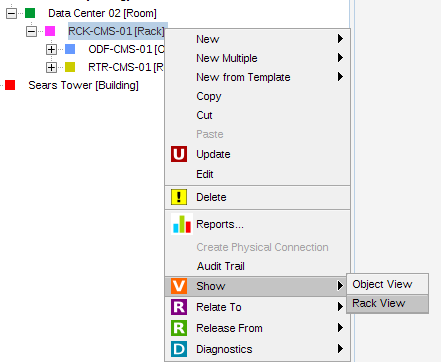
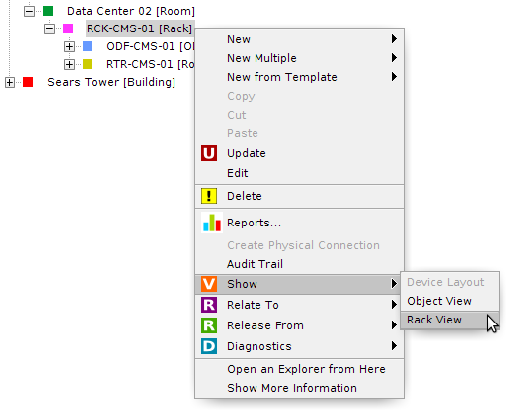
Added a description to create multiple template elements, a section to custom shapes and a section of import/export layout. Updated some figures.

Changed region(s): [[0.0, 0.0, 1.0, 1.0]]

diff --git a/docs/user_manual/user_manual.tex b/docs/user_manual/user_manual.tex
@@ -169,7 +169,7 @@
 	Once you are logged in, you will see only the dashboard page and a toolbar (figure~\ref{fig:main_toolbar}).\\
 	\begin{figure}[h!]
 		\centering
-		\includegraphics[width=0.7\linewidth]{img/main_toolbar.png}
+		\includegraphics[width=0.8\linewidth]{img/main_toolbar.png}
 		\caption{Main toolbar}
 		\label{fig:main_toolbar}
 	\end{figure}
@@ -201,6 +201,8 @@
 			\includegraphics[width=0.5cm]{img/icon_containment_manager.png} & Manage how objects can be created inside others\\
 			\midrule
 			\includegraphics[width=0.5cm]{img/icon_list_type_manager.png} & Create new list types\\
+			\midrule
+			\includegraphics[width=0.5cm]{img/icon_devices_layouts.png} & Shows the devices layouts existing\\
 			\midrule
 			\includegraphics[width=0.5cm]{img/icon_template_manager.png} & Create and manage templates\\
 			\midrule
@@ -555,6 +557,15 @@
 		\label{fig:template_with_special_objects}
 	\end{figure}
 	
+	If you no want create one by one template elements and special template elements use the action New multiple or New multiple special figure~\ref{fig:template_manager_new_multiple}, assigning a name pattern and the number of elements (see \textbf{\nameref{app:AppendixA}})
+		
+	\begin{figure}[h!]
+		\centering
+		\includegraphics[width=0.9\linewidth]{img/template_manager_new_multiple.png}
+		\caption{New multiple special template elements}
+		\label{fig:template_manager_new_multiple}
+	\end{figure}
+		
 	Now you can create containment structures as complex as you want.\\
 	
 	\begin{figure}[h!]
@@ -584,15 +595,8 @@
 	\subsection{Device Layouts} \label{sec:layouts}
 	Layouts are used to show how elements look like in the real world. For example, you can design a layout of the front panel of a router, with its slots, ports, lights, screws, etc. These layouts are dynamic, and designing one consists on putting together a bunch of geometrical shapes (rectangles, circles, etc) so they look like the real object, and name them after its expected children (slots, ports). Then, the rendering algorithm matches the shapes with the actual inventory objects and assembles a view that looks like the device you've got installed. You can also create reusable shapes that can be shared across different layouts (like say, RJ45 ports). This shapes are called \textit{Custom Shapes}.
 	
-	It is important to note that the device layouts are only available for instances of subclasses of \textbf{GenericCommunicationElement} (routers, switches, servers, etc) and \textbf{GenericDistributionFrame} (ODFs and DDFs). Also, it's mandatory that these classes have a list type attribute called \textbf{model}.
-	
-	%\begin{figure}[h!]
-	%	\centering
-	%	\includegraphics[width=0.5\linewidth]{img/template_manager_edit_layout.png}
-	%	\caption{Edit a layout}
-	%	\label{fig:template_manager_edit_layout}
-	%\end{figure}
-	
+	It is important to note that the device layouts are only available for instances which has an attribute called \textbf{model} and it's mandatory that the type be a list type attribute.
+		
 	\subsection{Device Layout Editor} \label{sec:device_layout_editor}
 	So, a layout is a set of basic shapes (squares, circles, text, triangles, etc) and custom shapes (compositions of basic shapes) that resemble the physical appearance of a real-world device. If the layout belongs to a \textit{rackable} device and is designed correctly, it can be embedded in a \textbf{\nameref{sec:rack_view}}. In general terms, you should create a layout per model of the equipment you intent to represent, for example, a router Cisco ASR 9001, a 24-ports ODF, an HPE Apollo 4200 Gen9 Server, etc.
 	\\
@@ -624,6 +628,10 @@
 			\midrule
 			\includegraphics[width=0.5cm]{img/device_layout_show_palette.png} & Show the palette of shapes\\
 			\midrule
+			\includegraphics[width=0.5cm]{img/device_layout_export.png} & Export device layout definition file to xml\\
+			\midrule
+			\includegraphics[width=0.5cm]{img/device_layout_import.png} & Import a device layout definition xml file\\
+			\midrule
 		\end{tabular}
 		\caption{Device Layout Editor Toolbar}
 		\label{tab:device_layout_editor_toolbar}
@@ -631,7 +639,7 @@
 		
 	\begin{figure}[h!]
 		\centering
-		\includegraphics[width=0.9\linewidth]{img/device_layout_empty.png}
+		\includegraphics[width=0.99\linewidth]{img/device_layout_empty.png}
 		\caption{Device Layout Editor}
 		\label{fig:device_layout_empty}
 	\end{figure}
@@ -684,6 +692,79 @@
 		\includegraphics[width=0.99\linewidth]{img/device_layout_show.png}
 		\caption{A fully functional device layout}
 		\label{fig:device_layout_render}
+	\end{figure}
+	
+	To not search in the template manager which devices has defined a layout use the tool \includegraphics[width=0.5cm]{img/icon_devices_layouts.png} in the main toolbar to see the template elements that has associated a device layout. See \textbf{Figure~\ref{fig:device_layout_all}}.
+	
+	\begin{figure}[h!]
+		\centering
+		\includegraphics[width=0.4\linewidth]{img/device_layout_all.png}
+		\caption{Defined devices layout}
+		\label{fig:device_layout_all}
+	\end{figure}
+	\newpage
+			
+	\subsection{Custom shapes} \label{sec:custom_shapes}
+	
+	A custom shape is a set of reusable shapes in a device layout, for example, an Ethernet port that can be used in different devices such as routers, switches, hubs, etc. Therefore, to avoid the work of drawing the ethernet port to each device, we use a custom shape, which has an icon and a layout associated. See \textbf{Figure~\ref{fig:custom_shapes_main}}.
+	
+	To open the list of custom shapes use the icon \includegraphics[width=0.5cm]{img/device_layout_custom_shapes.png} in the \textbf{\nameref{sec:device_layout_editor}}.
+	
+	\begin{figure}[h!]
+		\centering
+		\includegraphics[width=0.4\linewidth]{img/custom_shapes_main.png}
+		\caption{Custom shapes list}
+		\label{fig:custom_shapes_main}
+	\end{figure}
+	
+	Now when create a custom shape this are loaded in the palette to be used for the device layout or on another custom shapes. In this way the number of custom shapes in the tree in the right side of the figure~\ref{fig:custom_shape_ethernet_port} must be the same that the shown in the palette on the category of custom shapes in the left side of the figure~\ref{fig:custom_shape_ethernet_port}.
+	
+	\begin{figure}[h!]
+		\centering
+		\includegraphics[width=0.9\linewidth]{img/custom_shape_ethernet_port.png}
+		\caption{Custom shapes in context}
+		\label{fig:custom_shape_ethernet_port}
+	\end{figure}
+	
+	If the number does not match then click over the layout and click on the refresh button. See \textbf{Figure~\ref{fig:custom_shape_update_palette}}
+	
+	\begin{figure}[h!]
+		\centering
+		\includegraphics[width=0.4\linewidth]{img/custom_shape_update_palette.png}
+		\caption{Update palette}
+		\label{fig:custom_shape_update_palette}
+	\end{figure}
+	\newpage
+	
+	\subsection{Export/Import Device layout} \label{sec:import_export_device_layout}
+	
+	The defined devices layout and custom shapes can be imported and exported use the icons \includegraphics[width=0.5cm]{img/device_layout_export.png} and 	\includegraphics[width=0.5cm]{img/device_layout_import.png} respectively in the \textbf{\nameref{sec:device_layout_editor}}.
+	
+	When export the only action is select the location of the device layout definition file. In the import select the file to be load and appear a window with the options to import \textbf{Figure~\ref{fig:device_layout_first_import}}.
+		
+	\begin{figure}[h!]
+		\centering
+		\includegraphics[width=0.6\linewidth]{img/device_layout_first_import.png}
+		\caption{First import of a device layout}
+		\label{fig:device_layout_first_import}
+	\end{figure}
+	
+	The first time when load a device layout definition file, meanwhile no exist custom shapes all this must be imported, the next time can be replaced with the local custom shapes \textbf{Figure~\ref{fig:device_layout_next_import}}.
+	
+	\begin{figure}[h!]
+		\centering
+		\includegraphics[width=0.6\linewidth]{img/device_layout_next_import.png}
+		\caption{Next import of a device layout}
+		\label{fig:device_layout_next_import}
+	\end{figure}
+	
+	Click in the ok button and the device layout is imported, in the \textbf{Figure~\ref{fig:device_layout_imported}}  show the first load of a device layout in a data base without custom shapes and without devices layouts predefined
+	
+	\begin{figure}[h!]
+		\centering
+		\includegraphics[width=0.9\linewidth]{img/device_layout_imported.png}
+		\caption{Device Layout Imported}
+		\label{fig:device_layout_imported}
 	\end{figure}
 			
 	\clearpage
